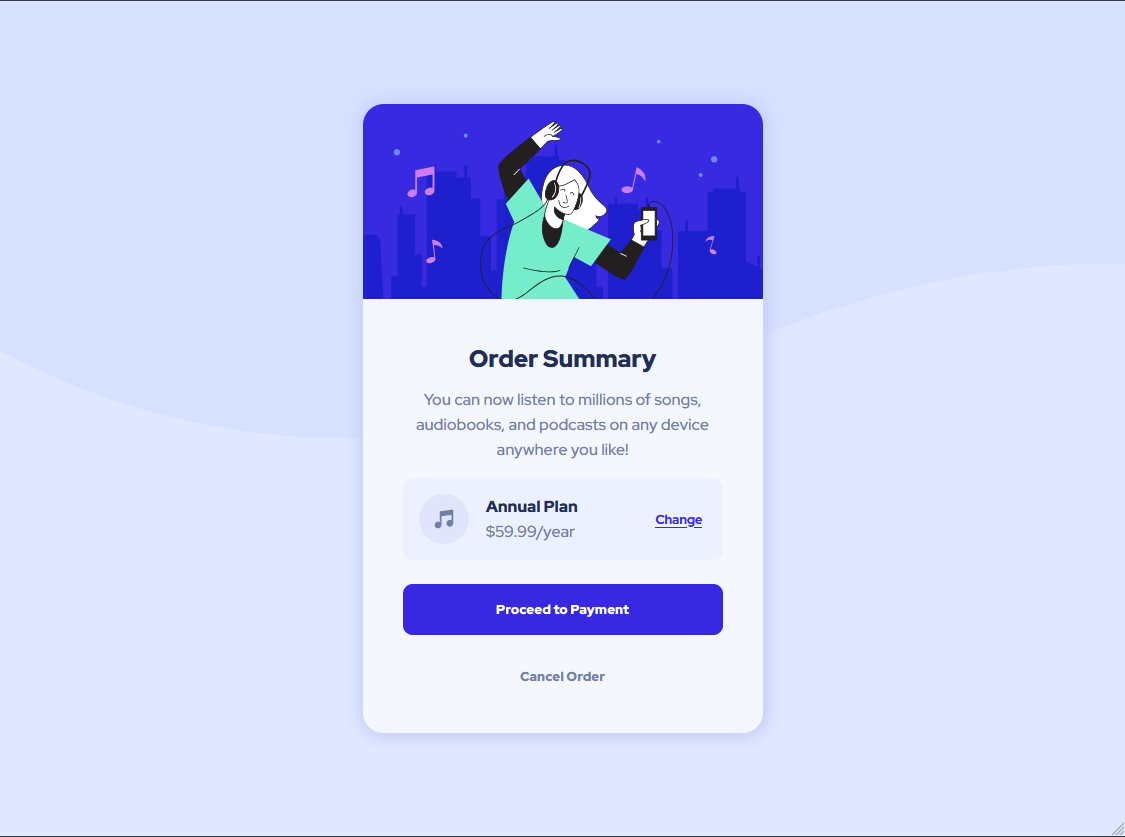
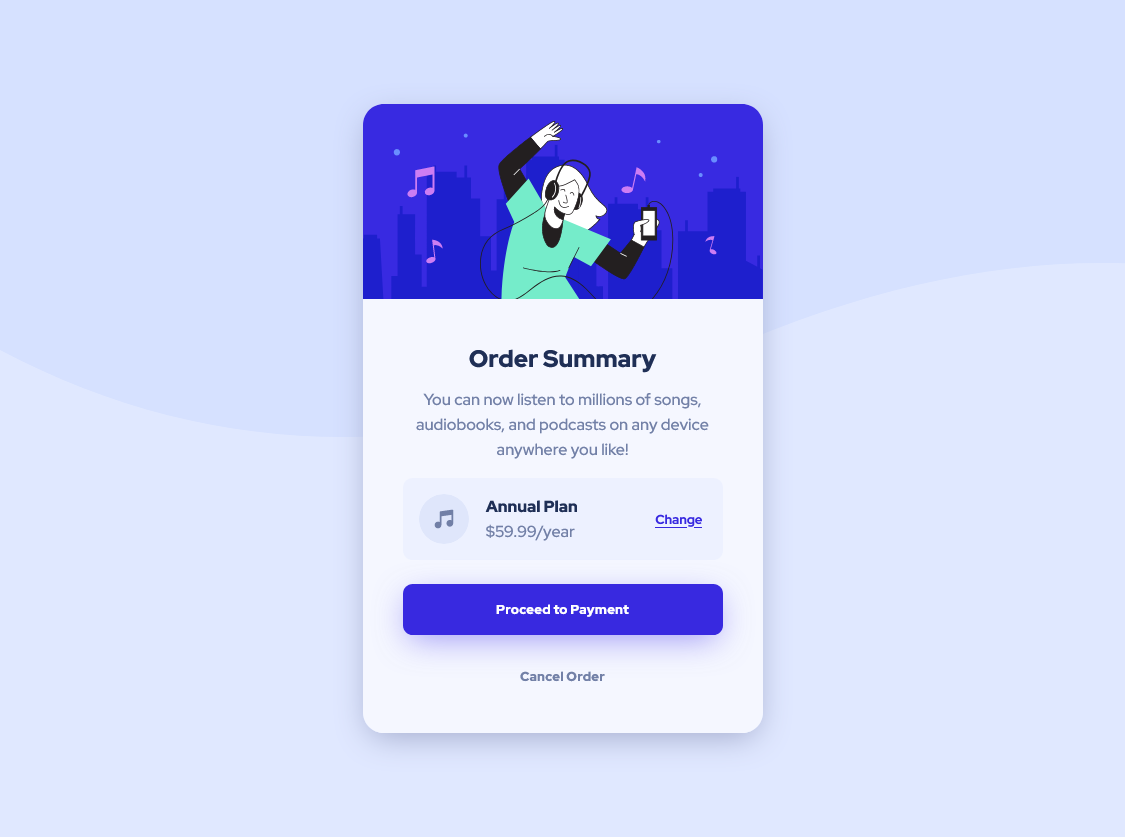
+ Actualizado screenshot.

diff --git a/css/style.css b/css/style.css
@@ -78,8 +78,8 @@ a{
 
   border-radius: var(--border-radius);
   background-color: var(--very-pale);
-  -webkit-box-shadow: 1px 1px 15px 5px #C6CFF6; 
-  box-shadow: 1px 1px 15px 5px #C6CFF6;
+  -webkit-box-shadow: 0px 9px 32px -6px #A0A8CA;
+  box-shadow: 0px 9px 32px -6px #A0A8CA;
 }
 
   .card-img > img{
